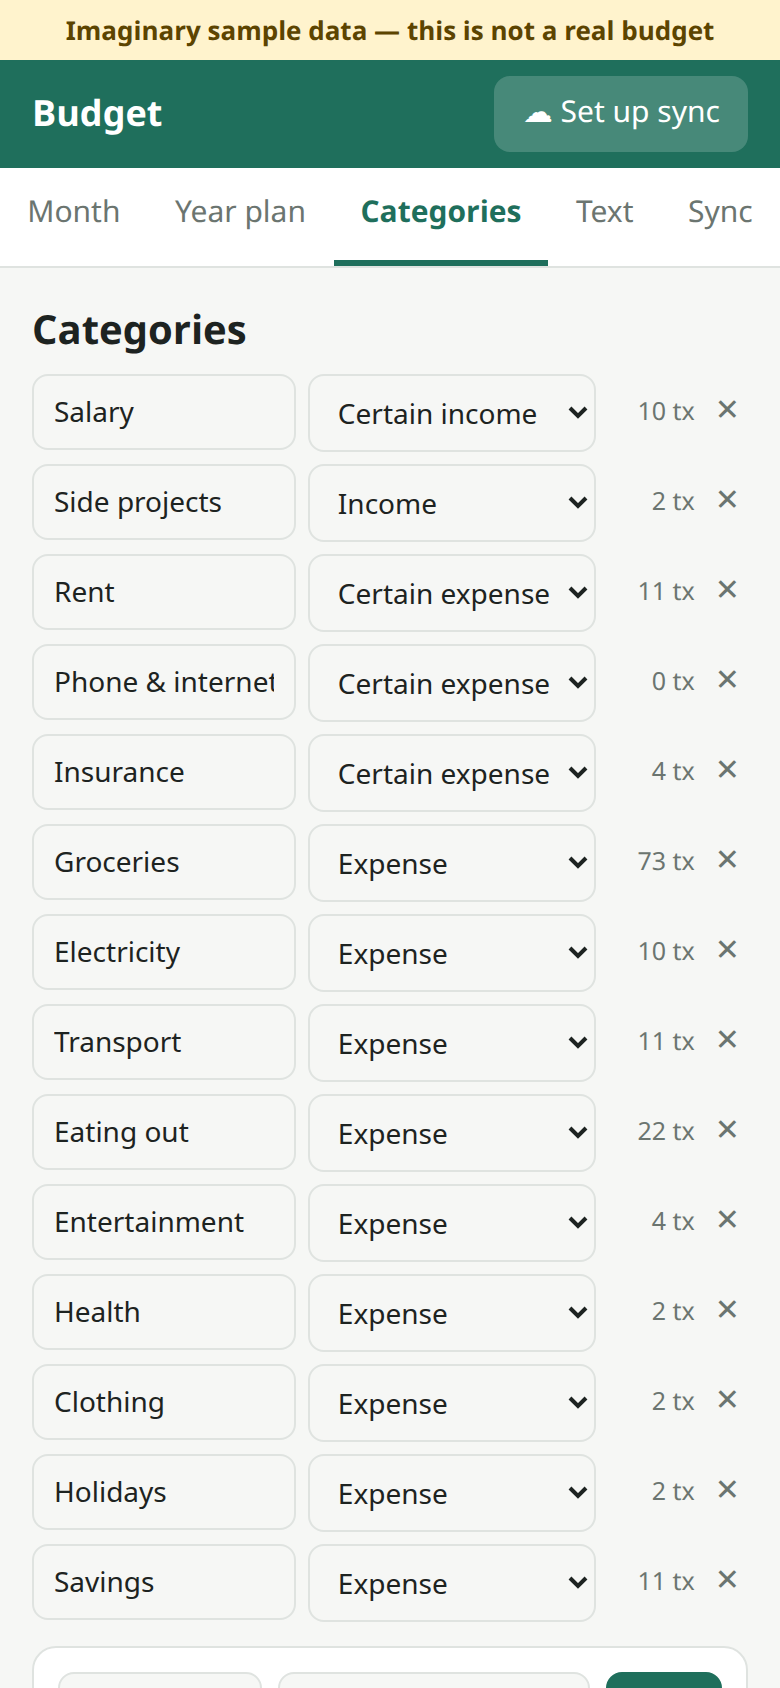
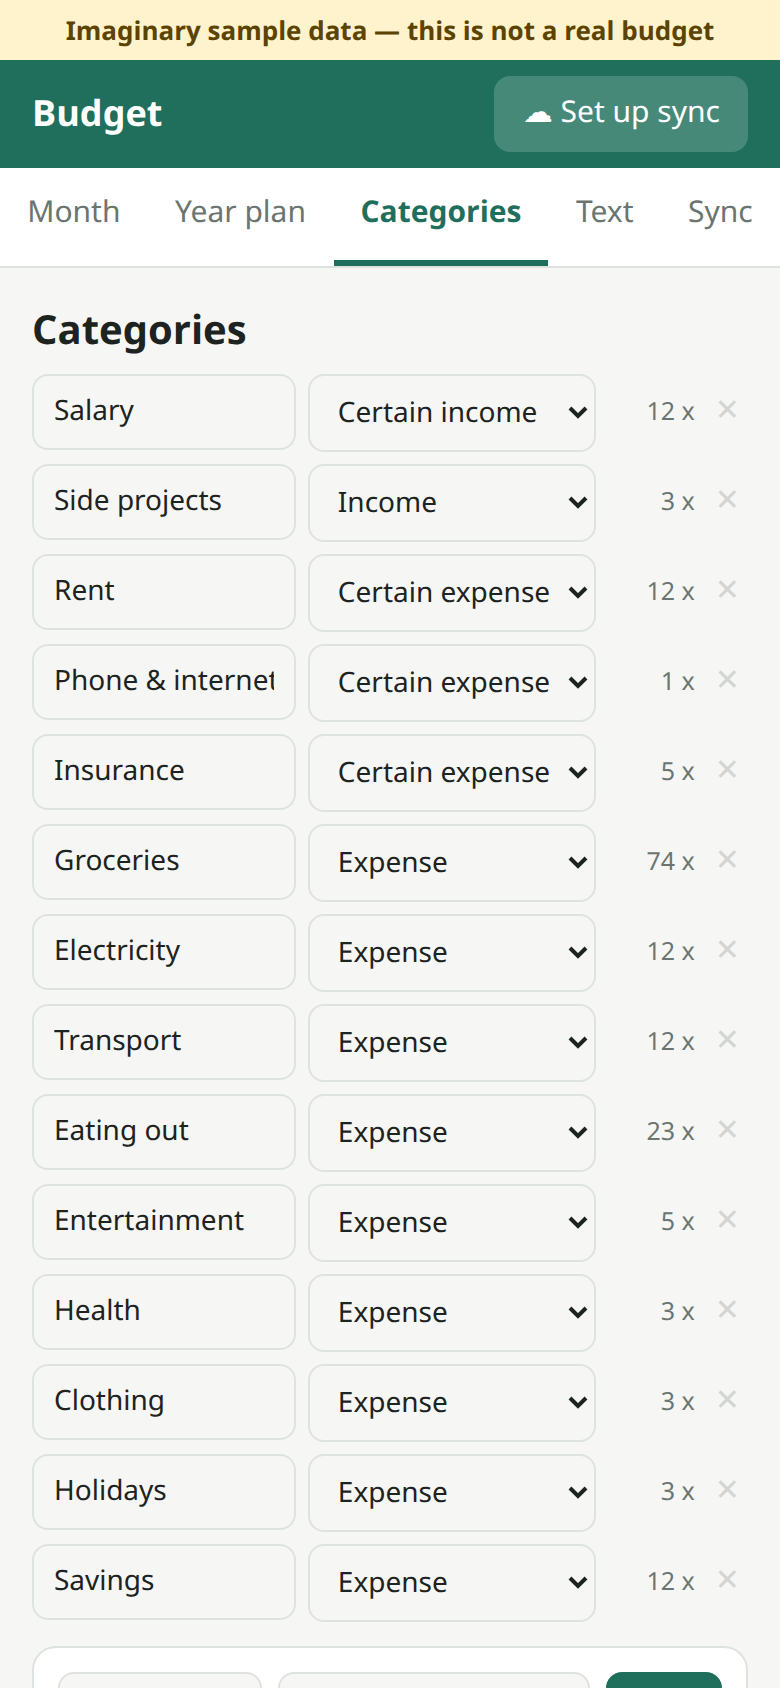
Prevent deleting categories that are in use
Categories referenced by any plan or transaction line can no longer be
deleted; deleteCategory() refuses them in core as well as in the UI.
The category list shows "N x" = number of lines mentioning the category.
Bump service worker cache to v3; refresh screenshots.

diff --git a/app.js b/app.js
@@ -264,12 +264,13 @@ function renderYear() {
 }
 
 function renderCats() {
-  const used = name => budget.tx.filter(t => t.cat === name).length;
+
+  const uses = budget.categories.map(c => core.categoryUses(budget, c.name));
   const rows = budget.categories.map((c, i) => `<li>
       <input data-rename="${i}" data-focus="cat:${i}" value="${esc(c.name)}">
       <select data-ctype="${i}">${typeOptions(c)}</select>
-      <span class="muted small">${used(c.name)} tx</span>
-      <button class="icon" data-act="delCat" data-i="${i}" title="Delete">✕</button>
+      <span class="muted small" title="Lines in the file that mention this category">${uses[i]} x</span>
+      <button class="icon" data-act="delCat" data-i="${i}" ${uses[i] ? `disabled title="In use: remove its ${uses[i]} plan/transaction line(s) first"` : 'title="Delete"'}>✕</button>
     </li>`).join('');
   return `<h2>Categories</h2>
     <ul class="catlist">${rows}</ul>
@@ -278,6 +279,8 @@ function renderCats() {
       <select name="type">${typeOptions({ type: 'expense' })}</select>
       <button class="primary">Add</button>
     </form>
+    <p class="muted small"><b>N x</b> = number of plan and transaction lines that mention the category.
+      A category can only be deleted when it is not used anywhere.</p>
     <p class="muted small"><b>Certain</b> income/expense: the planned amount counts as actual in any month without
       transactions in that category (e.g. salary, rent). Entering a transaction replaces the automatic amount.</p>
     <h3>Settings</h3>
@@ -439,8 +442,9 @@ const actions = {
   },
   delCat(el) {
     const c = budget.categories[+el.dataset.i];
-    const n = budget.tx.filter(t => t.cat === c.name).length;
-    if (!confirm(`Delete category "${c.name}"${n ? ` and its ${n} transaction(s)` : ''} and its plans?`)) return false;
+    const n = core.categoryUses(budget, c.name);
+    if (n) { alert(`"${c.name}" is used on ${n} line(s) in the plan or transactions. Remove or recategorize those first.`); return false; }
+    if (!confirm(`Delete category "${c.name}"?`)) return false;
     core.deleteCategory(budget, c.name);
     commit(); return false;
   },

diff --git a/core.js b/core.js
@@ -253,10 +253,21 @@ export function renameCategory(b, from, to) {
   }
 }
 
+// Number of lines in the file that mention the category (besides its own
+// `category` line): one per transaction, one per serialized plan line.
+export function categoryUses(b, name) {
+  let n = b.tx.filter(t => t.cat === name).length;
+  for (const yp of Object.values(b.plans))
+    if (yp[name]) n += new Set(yp[name].filter(x => x)).size;  // = plan lines, see serialize()
+  return n;
+}
+
+// Only unused categories can be deleted, so no data is ever removed by accident.
 export function deleteCategory(b, name) {
+  if (categoryUses(b, name) > 0) return false;
   b.categories = b.categories.filter(c => c.name !== name);
-  b.tx = b.tx.filter(t => t.cat !== name);
-  for (const y of Object.keys(b.plans)) delete b.plans[y][name];
+  for (const y of Object.keys(b.plans)) delete b.plans[y][name];  // all-zero rows
+  return true;
 }
 
 export function copyPlan(b, fromYear, toYear) {

diff --git a/sw.js b/sw.js
@@ -1,6 +1,6 @@
 // Offline support: serve the app shell from cache, refresh it in the background.
 // Bump on every change to a shell file, or installed apps keep the old version.
-const CACHE = 'budget-v2';
+const CACHE = 'budget-v3';
 const SHELL = ['./', 'index.html', 'style.css', 'app.js', 'core.js', 'drive.js',
   'manifest.webmanifest', 'icon.svg', 'icon-192.png', 'icon-512.png'];
 

diff --git a/style.css b/style.css
@@ -137,4 +137,5 @@ body[data-tab=year] main { max-width: 1400px; }
 .catlist li button.icon { padding: 4px; }
 .catlist li select { width: 100%; }
 .catlist li .small { text-align: right; }
+.catlist li button.icon:disabled { opacity: .25; cursor: not-allowed; }
 @media (max-width: 560px) { .catlist li select, .catlist li input { font-size: 14px; } }

diff --git a/README.md b/README.md
@@ -26,7 +26,7 @@ Do this on a test device or browser profile, because it replaces your data there
 
 - **Month**: add, edit and delete transactions. See actual vs. planned spending per category, with progress bars and over-budget warnings.
 - **Year plan**: a grid of categories × 12 months. Use ⇉ to fill a row, or copy last year's plan. It shows planned and actual net per month, cumulative totals, and a chart.
-- **Categories**: add, rename (updates all transactions and plans), delete, and set the type: income, expense, *certain income* or *certain expense*. Certain categories count their planned amount without needing a transaction. You can also set the currency here.
+- **Categories**: add, rename (updates all transactions and plans), delete (only when unused: the `N x` count shows how many plan and transaction lines mention it), and set the type: income, expense, *certain income* or *certain expense*. Certain categories count their planned amount without needing a transaction. You can also set the currency here.
 - **Text**: view and edit the raw file directly. Parse errors are shown with line numbers.
 - **Sync**: Google Drive sync with automatic 3-way merge, so edits from your phone and laptop are combined. You can also download or import the file.
 
